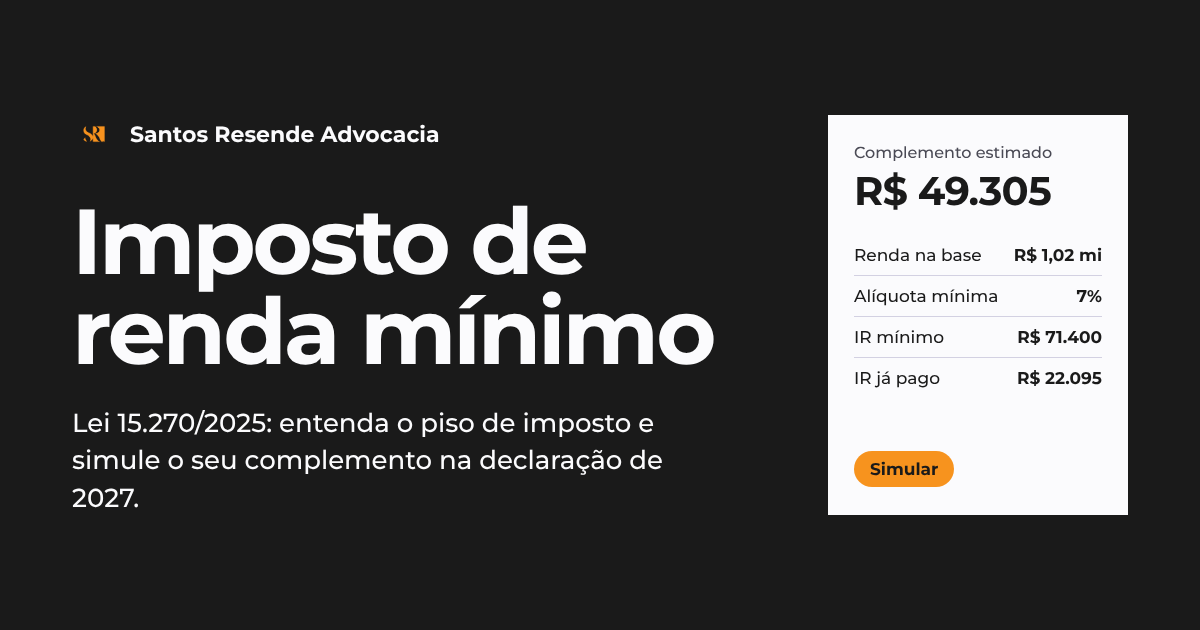
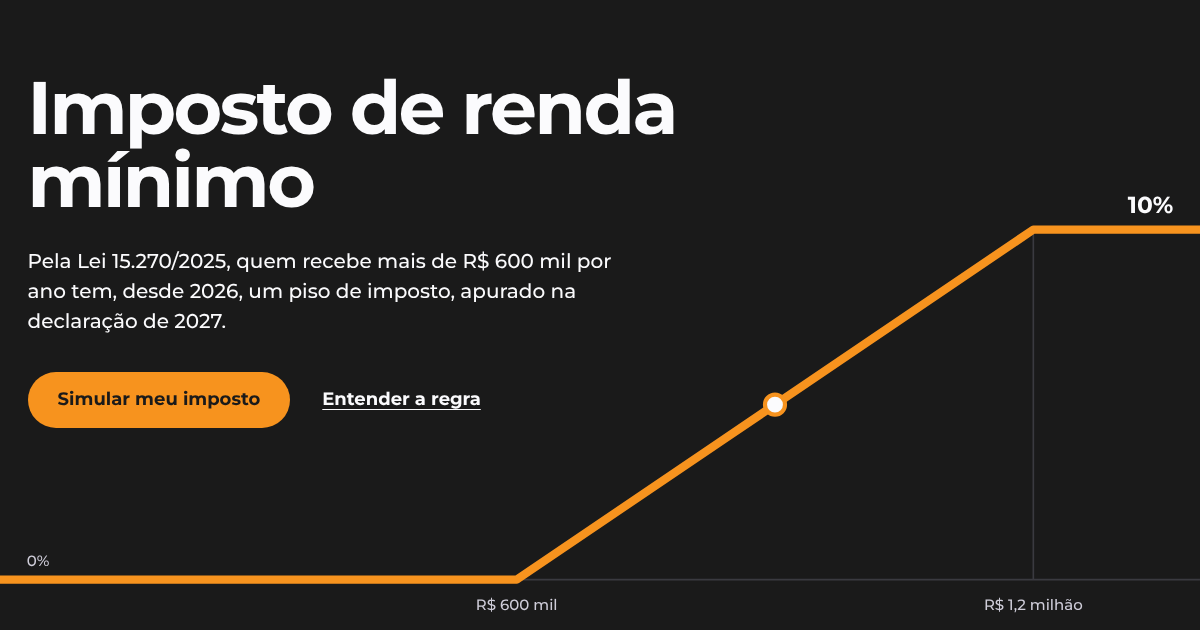
Abertura com a reta da lei em escala de cartaz
- Sai o par de cartões brancos da primeira tela; entra a reta da lei em
  laranja atravessando o campo escuro, desenhada ao carregar, com um ponto
  que a percorre
- Ações da primeira tela: botão "Simular meu imposto" e link "Entender a regra"
- Novo demonstrativo do redutor com números reais do cálculo
  (R$ 1,2 mi em dividendos, empresa a 30%: redutor de R$ 72.000)
- Títulos começam a subir assim que aparecem na tela
- URLs do site apontam para sr-irpfm.vercel.app
- Imagem de compartilhamento refeita a partir da nova abertura

Claude-Session: https://claude.ai/code/session_01QTMmjzjnVDxHHuoXND5c2y

diff --git a/css/estilo.css b/css/estilo.css
@@ -92,33 +92,37 @@ a { color: inherit; }
 .topo__nav { display: flex; align-items: center; gap: 28px; font-size: 16px; font-weight: 700; }
 .topo__nav .elo { text-decoration-color: transparent; }
 
-/* abertura: campo escuro, título, frase e duas portas */
-.abertura { background: var(--dark); color: var(--on-dark); }
-.abertura__corpo { display: flex; flex-direction: column; align-items: center; text-align: center; padding-top: clamp(40px, 4vw, 60px); padding-bottom: clamp(72px, 8vw, 120px); }
+/* abertura: campo escuro, título grande, frase, a ação e a reta da lei em escala de cartaz */
+.abertura { position: relative; overflow: clip; background: var(--dark); color: var(--on-dark); min-height: calc(100svh - 72px); display: flex; flex-direction: column; }
+.abertura__corpo { position: relative; z-index: 1; padding-top: clamp(48px, 6vw, 96px); }
 .exibicao { font-size: var(--t-exibicao); font-weight: 700; line-height: 0.98; letter-spacing: -0.035em; }
 .linhas .linha { display: block; overflow: hidden; padding-bottom: 0.08em; margin-bottom: -0.08em; }
 .linhas [data-linha] { display: block; }
-.abertura__frase { margin-top: 24px; max-width: 36em; font-size: var(--t-destaque); line-height: 1.5; color: var(--on-dark); text-wrap: pretty; }
-
-.portas { display: flex; justify-content: center; gap: 80px; margin-top: clamp(40px, 3.4vw, 48px); text-align: left; }
-.porta { display: flex; flex-direction: column; width: 300px; text-decoration: none; color: var(--on-dark); }
-.porta__quadro { display: block; width: 300px; height: 400px; overflow: clip; background: var(--surface); transition: transform var(--t-ui) var(--ease-out); }
-.porta__nome { margin-top: 20px; font-size: var(--t-destaque); font-weight: 700; text-decoration: underline; text-decoration-thickness: 0.07em; text-underline-offset: 0.22em; text-decoration-color: transparent; transition: text-decoration-color var(--t-hover) ease; }
-.porta__linha { margin-top: 4px; font-size: 16px; color: var(--on-dark-soft); }
-@media (hover: hover) and (pointer: fine) {
-  .porta:hover .porta__quadro { transform: translateY(-8px); }
-  .porta:hover .porta__nome { text-decoration-color: currentColor; }
-}
-.porta:focus-visible { outline-offset: 8px; }
+.abertura__frase { margin-top: 28px; max-width: 30em; font-size: var(--t-destaque); line-height: 1.5; color: var(--on-dark); text-wrap: pretty; }
+.abertura__acoes { display: flex; flex-wrap: wrap; align-items: center; gap: 16px 32px; margin-top: 36px; }
+.abertura__acoes .elo { font-size: 18px; font-weight: 700; }
+.botao--grande { min-height: 56px; padding: 14px 30px; font-size: 18px; }
+.abertura__reta { position: absolute; left: 0; right: 0; bottom: 0; margin: 0; pointer-events: none; }
+.abertura__corpo { padding-bottom: 48px; }
+.reta-grande { width: 100%; height: auto; overflow: visible; }
+.reta-grande--estreita { display: none; }
+.reta-grande__base { stroke: #3A3A40; stroke-width: 2; }
+.reta-grande__guia { stroke: #3A3A40; stroke-width: 2; }
+.reta-grande__linha { fill: none; stroke: var(--accent); stroke-width: 10; stroke-linejoin: round; stroke-linecap: round; }
+.reta-grande--estreita .reta-grande__linha { stroke-width: 6; }
+.reta-grande__txt { fill: var(--on-dark-soft); font: 500 18px var(--fonte); }
+.reta-grande--estreita .reta-grande__txt { font-size: 14px; }
+.reta-grande__txt--forte { fill: var(--on-dark); font-weight: 700; font-size: 28px; }
+.reta-grande--estreita .reta-grande__txt--forte { font-size: 20px; }
+.reta-grande__ponto { fill: var(--on-dark); stroke: var(--accent); stroke-width: 5; }
+.reta-grande--larga .reta-grande__ponto { transform: translate(930px, 290px); }
+.reta-grande--estreita .reta-grande__ponto { transform: translate(225px, 155px); }
 
 /* fragmentos de interface (data-ui): o painel do próprio cálculo */
 .frag { background: var(--surface); color: var(--ink); }
 .frag__rotulo { display: block; font-size: var(--t-nota); font-weight: 500; color: var(--muted); }
 .frag__numero { display: block; margin-top: 4px; font-size: var(--t-titulo); font-weight: 700; letter-spacing: -0.02em; line-height: 1.1; }
 .frag__nota { display: block; font-size: var(--t-nota); line-height: 1.45; color: var(--muted); }
-.porta__frag { display: flex; flex-direction: column; width: 300px; height: 400px; padding: 26px 24px 24px; }
-.porta__frag .rampa { margin-top: 18px; width: 252px; }
-.porta__frag .frag__nota { margin-top: auto; }
 .frag__linhas { display: flex; flex-direction: column; margin-top: 22px; }
 .frag__linhas > span { display: flex; justify-content: space-between; gap: 12px; padding: 9px 0; border-top: 1px solid var(--linha); font-size: 15px; } /* taste-skill-ignore: linhas da tabela dentro do fragmento data-ui */
 .frag__linhas > span:first-child { border-top: 0; }
@@ -130,9 +134,7 @@ a { color: inherit; }
 .rampa__guia { stroke: var(--linha); stroke-width: 1; }
 .rampa__reta { fill: none; stroke: var(--ink); stroke-width: 4; stroke-linejoin: round; stroke-linecap: round; }
 .rampa__txt { fill: var(--muted); font: 500 15px var(--fonte); }
-.rampa--porta .rampa__txt { font-size: 13px; }
 .rampa__ponto { fill: var(--surface); stroke: var(--ink); stroke-width: 3; }
-.rampa__viajante { fill: var(--accent); transform: translate(164px, 95px); }
 
 /* seções */
 .secao { margin-top: var(--entre-secoes); }
@@ -265,7 +267,15 @@ a { color: inherit; }
 
 /* redutor */
 .redutor__texto { grid-column: 1 / 7; }
-.cifras--tetos { grid-column: 8 / 13; align-self: center; margin-top: 0; gap: 32px; }
+.redutor { row-gap: 48px; }
+.cifras--tetos { grid-column: 8 / 13; grid-row: 1 / 3; align-self: center; margin-top: 0; gap: 32px; }
+.exemplo { grid-column: 1 / 7; grid-row: 2; padding: 32px 32px 24px; }
+.exemplo .demo__tabela td:last-child { text-align: right; font-weight: 700; white-space: nowrap; }
+.exemplo__alerta { color: var(--accent-ink); }
+.exemplo__final { background: var(--accent-pale); }
+.exemplo__final td { color: var(--accent-ink); font-size: var(--t-destaque); font-weight: 700; }
+.exemplo__final td:first-child { padding-left: 12px; }
+.exemplo__final td:last-child { padding-right: 12px; }
 .cifras--tetos dt { font-size: clamp(34px, 3.6vw, 52px); }
 .cifras--tetos > div { grid-template-columns: 150px minmax(0, 1fr); }
 
@@ -310,6 +320,10 @@ a { color: inherit; }
 
 /* tablet */
 @media (max-width: 1000px) {
+  .reta-grande--larga { display: none; }
+  .reta-grande--estreita { display: block; }
+  .reta-grande--estreita .reta-grande__txt { font-size: 10px; }
+  .reta-grande--estreita .reta-grande__txt--forte { font-size: 13px; }
   .topo__nav .elo { display: none; }
   .funciona__texto, .redutor__texto { grid-column: 1 / -1; }
   .funciona__palco { grid-column: 1 / -1; margin-top: 8px; }
@@ -324,7 +338,8 @@ a { color: inherit; }
   .reta__explica { margin-top: 12px; }
   .grafico { padding: 16px 16px 10px; }
   .grafico .rampa { margin-top: 6px; }
-  .cifras--tetos { grid-column: 1 / -1; margin-top: 40px; }
+  .cifras--tetos { grid-column: 1 / -1; grid-row: auto; margin-top: 8px; }
+  .exemplo { grid-column: 1 / -1; grid-row: auto; padding: 24px 20px 18px; }
   .painel { grid-template-columns: 1fr; }
   .base__grupo { grid-column: 1 / -1; }
   .perguntas__titulo, .perguntas__texto { grid-column: 1 / -1; }
@@ -332,7 +347,6 @@ a { color: inherit; }
   .contato__frase { grid-column: 1 / -1; }
   .contato__marca { grid-column: 1 / 6; justify-self: start; margin-top: 48px; max-width: 280px; }
   .contato__caminhos { grid-column: 7 / -1; margin-top: 48px; }
-  .portas { gap: 40px; }
 }
 
 /* telefone */
@@ -343,12 +357,11 @@ a { color: inherit; }
   .base { margin-top: 40px; row-gap: 36px; }
   .passo { padding-block: 20px; }
   .topo__marca img { height: 36px; }
-  .abertura__frase { margin-top: 24px; font-size: 18px; }
-  .portas { gap: 14px; width: 100%; }
-  .porta { width: auto; flex: 1 1 0; min-width: 0; }
-  .porta__quadro { width: 100%; height: auto; aspect-ratio: 3 / 4; }
-  .porta__nome { margin-top: 14px; font-size: 17px; }
-  .porta__linha { font-size: 16px; }
+  .abertura__frase { margin-top: 20px; font-size: 18px; }
+  .abertura__acoes { margin-top: 28px; gap: 16px 24px; }
+  .abertura__reta { position: static; margin-top: auto; padding-top: 24px; }
+  .reta-grande--estreita .reta-grande__txt { font-size: 14px; }
+  .reta-grande--estreita .reta-grande__txt--forte { font-size: 20px; }
   .passo__frase { font-size: 22px; }
   .afirmacao { font-size: 20px; }
   .cifras > div, .cifras--tetos > div { grid-template-columns: 88px minmax(0, 1fr); column-gap: 16px; }
@@ -398,29 +411,25 @@ a { color: inherit; }
 @media (prefers-reduced-motion: no-preference) {
   .rola:not(.entrou) .rola__fita { transform: none; }
   .rola.entrou .rola__fita { transition: transform 1100ms var(--ease-expo) calc(250ms + var(--i) * var(--stagger-item)); }
-  .abertura .rola.entrou .rola__fita { transition-delay: calc(900ms + var(--i) * var(--stagger-item)); }
 
-  /* a reta da porta se desenha depois que a porta abre */
-  .js .rampa__reta--desenha { stroke-dasharray: 1; stroke-dashoffset: 1; animation: desenha 1300ms var(--ease-in-out) 900ms forwards; }
   /* o ponto do "Agora" pulsa devagar */
   .ponto--agora { position: relative; }
   .ponto--agora::after { content: ""; position: absolute; inset: 0; border-radius: 50%; background: var(--accent); animation: pulsa 2.4s var(--ease-out) infinite; }
-  /* as portas sobem um pouco enquanto a abertura sai da tela */
-  @supports (animation-timeline: view()) {
-    .portas { animation: afasta linear both; animation-timeline: view(); animation-range: exit 0% exit 100%; }
-  }
 }
 @keyframes desenha { to { stroke-dashoffset: 0; } }
+@keyframes aparece { to { opacity: 1; } }
 @keyframes pulsa { from { transform: scale(1); opacity: 0.6; } to { transform: scale(2.6); opacity: 0; } }
 @keyframes afasta { to { transform: translateY(-6%); } }
 
 /* movimento: o conteúdo só se esconde quando há JavaScript e o visitante aceita movimento */
 @media (prefers-reduced-motion: no-preference) {
   .js .abertura [data-linha] { transform: translateY(105%); animation: sobe-linha 900ms var(--ease-expo) forwards; animation-delay: calc(100ms + var(--i) * var(--stagger-line)); }
+  /* a reta se desenha e o ponto passa a percorrê-la */
+  .js .reta-grande__linha { stroke-dasharray: 1; stroke-dashoffset: 1; animation: desenha 1600ms var(--ease-in-out) 500ms forwards; }
+  .js .reta-grande__ponto { opacity: 0; }
+  .js .reta-grande--larga .reta-grande__ponto { animation: aparece 300ms ease 2100ms forwards, viaja-larga 9s var(--ease-in-out) 2100ms infinite alternate; }
+  .js .reta-grande--estreita .reta-grande__ponto { animation: aparece 300ms ease 2100ms forwards, viaja-estreita 9s var(--ease-in-out) 2100ms infinite alternate; }
   .js .abertura [data-chega] { opacity: 0; transform: translateY(14px); animation: chega 600ms var(--ease-out) forwards; animation-delay: var(--d); }
-  .js .abertura [data-abre] .porta__quadro { clip-path: inset(100% 0 0 0); animation: abre 1000ms var(--ease-in-out) forwards; animation-delay: var(--d); }
-  .js .abertura [data-abre] .porta__nome, .js .abertura [data-abre] .porta__linha { opacity: 0; animation: chega 600ms var(--ease-out) forwards; animation-delay: calc(var(--d) + 500ms); }
-  .rampa__viajante { animation: viaja 7s var(--ease-in-out) 2.2s infinite alternate; }
 
   .js [data-revela] { opacity: 0; transform: translateY(24px); transition: opacity 700ms var(--ease-out), transform 900ms var(--ease-expo); transition-delay: calc(var(--i, 0) * var(--stagger-item)); }
   .js [data-revela].dentro { opacity: 1; transform: none; }
@@ -432,11 +441,17 @@ a { color: inherit; }
 @keyframes sobe-linha { to { transform: none; } }
 @keyframes chega { to { opacity: 1; transform: none; } }
 @keyframes abre { to { clip-path: inset(0); } }
-@keyframes viaja {
-  0%, 8% { transform: translate(36px, 170px); }
-  38% { transform: translate(121.6px, 170px); }
-  82% { transform: translate(207.2px, 20px); }
-  92%, 100% { transform: translate(252px, 20px); }
+@keyframes viaja-larga {
+  0%, 6% { transform: translate(40px, 500px); }
+  40% { transform: translate(620px, 500px); }
+  86% { transform: translate(1240px, 80px); }
+  94%, 100% { transform: translate(1400px, 80px); }
+}
+@keyframes viaja-estreita {
+  0%, 6% { transform: translate(14px, 250px); }
+  40% { transform: translate(150px, 250px); }
+  86% { transform: translate(300px, 60px); }
+  94%, 100% { transform: translate(376px, 60px); }
 }
 @media (prefers-reduced-motion: reduce) {
   html { scroll-behavior: auto; }

diff --git a/index.html b/index.html
@@ -9,7 +9,7 @@
 <meta name="author" content="Santos Resende Advocacia">
 <meta name="theme-color" content="#FBFBFD">
 <meta name="color-scheme" content="light">
-<link rel="canonical" href="https://santosresende.adv.br/">
+<link rel="canonical" href="https://sr-irpfm.vercel.app/">
 
 <!-- Open Graph (Facebook, WhatsApp, LinkedIn) -->
 <meta property="og:type" content="website">
@@ -17,8 +17,8 @@
 <meta property="og:site_name" content="Santos Resende Advocacia">
 <meta property="og:title" content="Imposto de renda mínimo: você vai ter de complementar?">
 <meta property="og:description" content="Desde 2026, quem recebe mais de R$ 600 mil por ano tem um piso de imposto. Entenda a regra da Lei 15.270/2025 e simule o seu caso antes da declaração de 2027.">
-<meta property="og:url" content="https://santosresende.adv.br/">
-<meta property="og:image" content="https://santosresende.adv.br/img/og-imposto-minimo.png">
+<meta property="og:url" content="https://sr-irpfm.vercel.app/">
+<meta property="og:image" content="https://sr-irpfm.vercel.app/img/og-imposto-minimo.png">
 <meta property="og:image:type" content="image/png">
 <meta property="og:image:width" content="1200">
 <meta property="og:image:height" content="630">
@@ -28,7 +28,7 @@
 <meta name="twitter:card" content="summary_large_image">
 <meta name="twitter:title" content="Imposto de renda mínimo: você vai ter de complementar?">
 <meta name="twitter:description" content="Entenda o imposto de renda mínimo da Lei 15.270/2025 e simule quanto você pode ter de complementar na declaração de 2027.">
-<meta name="twitter:image" content="https://santosresende.adv.br/img/og-imposto-minimo.png">
+<meta name="twitter:image" content="https://sr-irpfm.vercel.app/img/og-imposto-minimo.png">
 
 <!-- Ícones -->
 <link rel="icon" href="/favicon.ico" sizes="any">
@@ -43,11 +43,11 @@
   "@graph": [
     {
       "@type": "LegalService",
-      "@id": "https://santosresende.adv.br/#escritorio",
+      "@id": "https://sr-irpfm.vercel.app/#escritorio",
       "name": "Santos Resende Advocacia",
-      "url": "https://santosresende.adv.br/",
-      "logo": "https://santosresende.adv.br/img/logo.png",
-      "image": "https://santosresende.adv.br/img/og-imposto-minimo.png",
+      "url": "https://sr-irpfm.vercel.app/",
+      "logo": "https://sr-irpfm.vercel.app/img/logo.png",
+      "image": "https://sr-irpfm.vercel.app/img/og-imposto-minimo.png",
       "telephone": "+55-12-2170-9942",
       "email": "contato@santosresende.adv.br",
       "address": {
@@ -60,12 +60,12 @@
     },
     {
       "@type": "WebPage",
-      "@id": "https://santosresende.adv.br/#pagina",
-      "url": "https://santosresende.adv.br/",
+      "@id": "https://sr-irpfm.vercel.app/#pagina",
+      "url": "https://sr-irpfm.vercel.app/",
       "name": "Imposto de Renda Mínimo",
       "description": "Entenda o imposto de renda mínimo da Lei 15.270/2025 e calcule quanto você pode ter de complementar na declaração de 2027.",
       "inLanguage": "pt-BR",
-      "publisher": { "@id": "https://santosresende.adv.br/#escritorio" }
+      "publisher": { "@id": "https://sr-irpfm.vercel.app/#escritorio" }
     }
   ]
 }
@@ -95,7 +95,7 @@
 
 <main id="conteudo">
 
-<!-- Primeira tela: o título, a frase que diz o que é, e duas portas: a regra e a simulação -->
+<!-- Primeira tela: o título, a frase, a ação, e a reta da lei atravessando o campo escuro -->
 <section class="abertura" id="inicio" aria-labelledby="titulo">
   <div class="moldura abertura__corpo">
     <h1 id="titulo" class="exibicao linhas">
@@ -103,49 +103,33 @@
       <span class="linha"><span data-linha style="--i:1">mínimo</span></span>
     </h1>
     <p class="abertura__frase" data-chega style="--d:420ms">Pela Lei 15.270/2025, quem recebe mais de R$ 600 mil por ano tem, desde 2026, um piso de imposto, apurado na declaração de 2027.</p>
-
-    <div class="portas">
-      <a class="porta" href="#como-funciona" data-abre style="--d:260ms">
-        <span class="porta__quadro">
-          <span class="frag porta__frag" data-ui role="img" aria-label="Gráfico da alíquota mínima: zero até R$ 600 mil, subindo em linha reta até 10% em R$ 1,2 milhão">
-            <span class="frag__rotulo">Alíquota mínima</span>
-            <span class="frag__numero">0% a 10%</span>
-            <svg class="rampa rampa--porta" viewBox="0 0 260 200" aria-hidden="true">
-              <line class="rampa__eixo" x1="36" y1="170" x2="252" y2="170"/>
-              <polyline class="rampa__reta rampa__reta--desenha" pathLength="1" points="36,170 121.6,170 207.2,20 252,20"/>
-              <text class="rampa__txt" x="30" y="174" text-anchor="end">0%</text>
-              <text class="rampa__txt" x="30" y="24" text-anchor="end">10%</text>
-              <text class="rampa__txt" x="121.6" y="192" text-anchor="middle">600 mil</text>
-              <text class="rampa__txt" x="207.2" y="192" text-anchor="middle">1,2 mi</text>
-              <circle class="rampa__viajante" r="7" cx="0" cy="0"/>
-            </svg>
-            <span class="frag__nota">Sobe em linha reta entre R$ 600 mil e R$ 1,2 milhão de renda no ano.</span>
-          </span>
-        </span>
-        <span class="porta__nome">Entender a regra</span>
-        <span class="porta__linha">Como o piso é calculado</span>
-      </a>
-
-      <a class="porta" href="#calculadora" data-abre style="--d:360ms">
-        <span class="porta__quadro">
-          <span class="frag porta__frag" data-ui role="img" aria-label="Exemplo de simulação: complemento estimado de R$ 49.305">
-            <span class="frag__rotulo">Complemento estimado</span>
-            <span class="frag__numero"><span data-rola>R$ 49.305</span></span>
-            <span class="frag__linhas">
-              <span><span>Renda na base</span><b>R$ 1,02 mi</b></span>
-              <span><span>Alíquota mínima</span><b>7%</b></span>
-              <span><span>IR mínimo</span><b>R$ 71.400</b></span>
-              <span><span>IR já pago</span><b>R$ 22.095</b></span>
-              <span><span>Redutor</span><b>R$ 0</b></span>
-            </span>
-            <span class="frag__selo">Declaração de 2027</span>
-          </span>
-        </span>
-        <span class="porta__nome">Simular meu imposto</span>
-        <span class="porta__linha">Seus valores, em reais</span>
-      </a>
+    <div class="abertura__acoes" data-chega style="--d:520ms">
+      <a class="botao botao--grande" href="#calculadora">Simular meu imposto</a>
+      <a class="elo elo--claro" href="#como-funciona">Entender a regra</a>
     </div>
   </div>
+  <figure class="abertura__reta" role="img" aria-label="A reta da lei: alíquota mínima de zero até R$ 600 mil por ano, subindo em linha reta até 10% em R$ 1,2 milhão">
+    <svg class="reta-grande reta-grande--larga" viewBox="0 0 1440 560" aria-hidden="true">
+      <line class="reta-grande__base" x1="0" y1="500" x2="1440" y2="500"/>
+      <line class="reta-grande__guia" x1="1240" y1="80" x2="1240" y2="500"/>
+      <polyline class="reta-grande__linha" pathLength="1" points="0,500 620,500 1240,80 1440,80"/>
+      <text class="reta-grande__txt" x="32" y="484">0%</text>
+      <text class="reta-grande__txt" x="620" y="536" text-anchor="middle">R$ 600 mil</text>
+      <text class="reta-grande__txt" x="1240" y="536" text-anchor="middle">R$ 1,2 milhão</text>
+      <text class="reta-grande__txt reta-grande__txt--forte" x="1408" y="60" text-anchor="end">10%</text>
+      <circle class="reta-grande__ponto" r="12"/>
+    </svg>
+    <svg class="reta-grande reta-grande--estreita" viewBox="0 0 390 300" aria-hidden="true">
+      <line class="reta-grande__base" x1="0" y1="250" x2="390" y2="250"/>
+      <line class="reta-grande__guia" x1="300" y1="60" x2="300" y2="250"/>
+      <polyline class="reta-grande__linha" pathLength="1" points="0,250 150,250 300,60 390,60"/>
+      <text class="reta-grande__txt" x="20" y="238">0%</text>
+      <text class="reta-grande__txt" x="150" y="276" text-anchor="middle">R$ 600 mil</text>
+      <text class="reta-grande__txt" x="300" y="276" text-anchor="middle">R$ 1,2 mi</text>
+      <text class="reta-grande__txt reta-grande__txt--forte" x="370" y="44" text-anchor="end">10%</text>
+      <circle class="reta-grande__ponto" r="9"/>
+    </svg>
+  </figure>
 </section>
 
 <!-- Como funciona: palco fixo com o demonstrativo, que muda a cada passo -->
@@ -321,6 +305,19 @@
       <h2 id="t-redutor" class="titulo" data-linhas>O redutor limita a carga somada</h2>
       <p class="corrido" data-revela style="--i:1">Para sócios de empresas: se o imposto pago pela empresa sobre o lucro, somado ao imposto mínimo do sócio sobre os dividendos, passar do teto nominal, o excesso é abatido. Na prática, sócio de empresa que já paga a carga cheia pode não ter nada a complementar.</p>
       <p class="corrido" data-revela style="--i:2">Para usar o redutor, a empresa precisa ter demonstrações financeiras que comprovem a carga efetiva.</p>
+    </div>
+    <div class="frag exemplo" data-ui data-revela style="--i:3">
+      <p class="demo__titulo">Exemplo do redutor, só com dividendos</p>
+      <table class="demo__tabela">
+        <tbody>
+          <tr><td>Dividendos no ano</td><td>R$ 1.200.000</td></tr>
+          <tr><td>IR mínimo do sócio <small>1.200.000 × 10%</small></td><td>R$ 120.000</td></tr>
+          <tr><td>Carga somada <small>empresa 30% + sócio 10%</small></td><td class="exemplo__alerta">40%</td></tr>
+          <tr><td>Redutor <small>o que passa de 34%: 6% de R$ 1,2 mi</small></td><td>− R$ 72.000</td></tr>
+          <tr class="exemplo__final"><td>Complemento</td><td>R$ 48.000</td></tr>
+        </tbody>
+      </table>
+      <p class="demo__nota">Valores ilustrativos, sem outro imposto pago no ano.</p>
     </div>
     <dl class="cifras cifras--tetos">
       <div data-revela style="--i:2"><dt><span data-rola>34%</span></dt><dd>Regra geral para empresas</dd></div>

diff --git a/js/movimento.js b/js/movimento.js
@@ -33,7 +33,7 @@
       var ult = el.querySelector('.linha:last-of-type > span');
       if (ult) ult.addEventListener('transitionend', function () { devolve(el); }, { once: true }); else devolve(el);
     }
-    document.fonts.ready.then(function () { els.forEach(parte); quandoVisto(els, entra, 0.12); });
+    document.fonts.ready.then(function () { els.forEach(parte); quandoVisto(els, entra, 0); });
     var largura = innerWidth;
     addEventListener('resize', function () {
       if (innerWidth === largura) return; largura = innerWidth;

diff --git a/README.md b/README.md
@@ -37,13 +37,11 @@ Ou abra o `index.html` direto no navegador.
 ## Domínio
 
 As URLs absolutas (canonical, Open Graph, dados estruturados, `robots.txt` e `sitemap.xml`)
-usam `https://santosresende.adv.br/`. Se o site for para outro endereço, troque em todos os arquivos:
+usam `https://sr-irpfm.vercel.app/`. Quando o site passar para um domínio próprio, troque em todos os arquivos:
 
 ```bash
-grep -rl "santosresende.adv.br/" index.html robots.txt sitemap.xml | xargs sed -i 's#https://santosresende.adv.br/#https://NOVO-ENDERECO/#g'
+grep -rl "sr-irpfm.vercel.app/" index.html robots.txt sitemap.xml | xargs sed -i 's#https://sr-irpfm.vercel.app/#https://NOVO-ENDERECO/#g'
 ```
-
-(o e-mail `contato@santosresende.adv.br` não é alterado por esse comando.)
 
 ## Publicar
 
